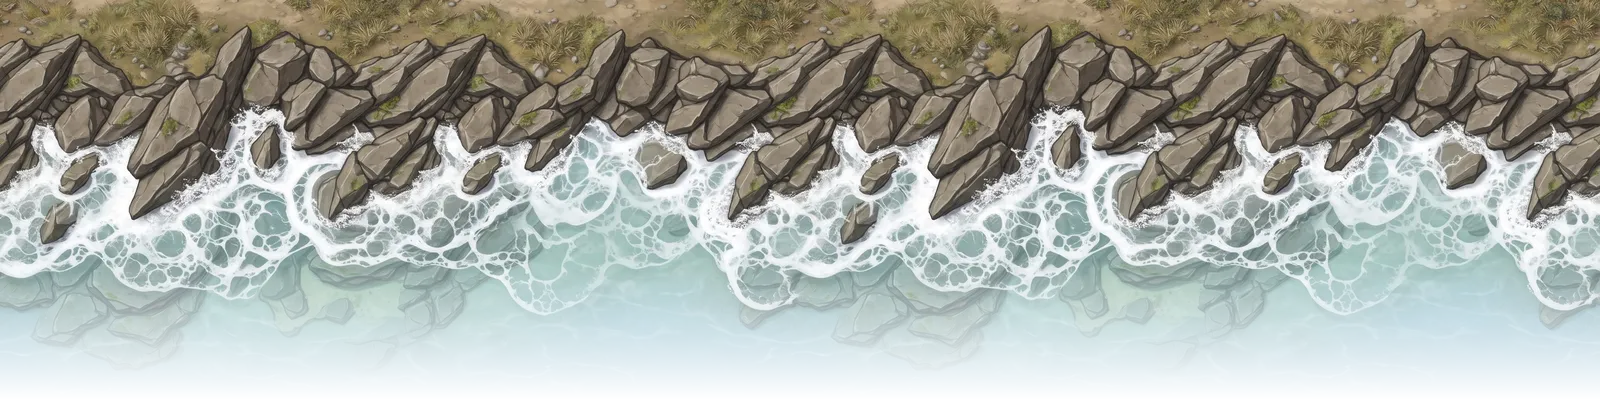
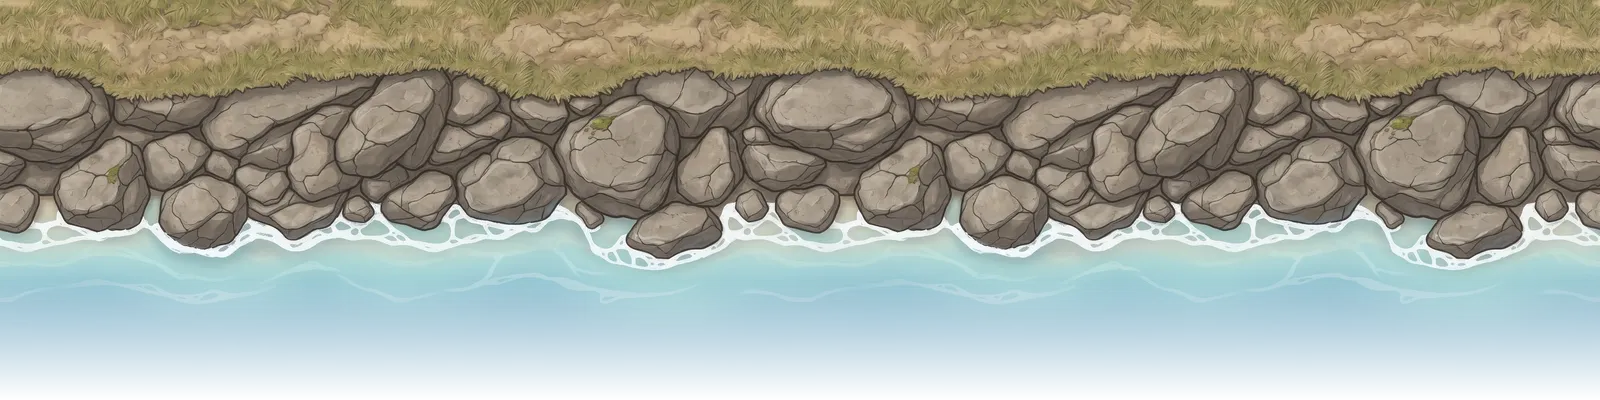
0.72: pobřeží s oblými kameny, pruhy navazují v rozích
Claude-Session: https://claude.ai/code/session_015jCRZRXAnsYATbUEFx8nqY

diff --git a/hra/js/ui/board.js b/hra/js/ui/board.js
@@ -196,8 +196,8 @@ export function createBoard(cv, onPick) {
     ctx.fillStyle = color; ctx.fillText(t, x, y);
   }
   // pruh pobřeží na každou hranu s jediným dílkem: tráva pod dílek, skály a pěna ven do moře.
-  // Pruh je 4:1, výška SH jednotek mapy, hrana leží v SE jeho výšky; konce přesahují o SX kvůli rohům.
-  const SH = 0.8, SE = 0.12, SX = 0.3;
+  // Pruh je 4:1, výška SH jednotek mapy, hrana leží v SE jeho výšky; konce přesahují o SX a ořízne je výseč.
+  const SH = 0.85, SE = 0.15, SX = 0.45;
   function shore(img) {
     const g = B.g, iw = img.naturalWidth, ih = img.naturalHeight;
     for (const id in g.E) {
@@ -209,7 +209,10 @@ export function createBoard(cv, onPick) {
       if (ux * ((a.x + b.x) / 2 - c.x) + uy * ((a.y + b.y) / 2 - c.y) < 0) { ux = -ux; uy = -uy; }
       const len = L + 2 * SX, sw = len / SH * ih, h = [...String(id)].reduce((s, ch) => s * 31 + ch.charCodeAt(0) | 0, 7);
       const sx = Math.abs(h) % Math.max(1, Math.floor(iw - sw));
-      ctx.save(); ctx.transform(tx, ty, ux, uy, a.x, a.y);
+      ctx.save();
+      // výseč dílku za touto hranou: sousední pruhy se v rozích potkají bez mezery a bez přesahu
+      ctx.beginPath(); ctx.moveTo(c.x, c.y); ctx.lineTo(c.x + (a.x - c.x) * 3, c.y + (a.y - c.y) * 3); ctx.lineTo(c.x + (b.x - c.x) * 3, c.y + (b.y - c.y) * 3); ctx.closePath(); ctx.clip();
+      ctx.transform(tx, ty, ux, uy, a.x, a.y);
       ctx.drawImage(img, sx, 0, sw, ih, -SX, -SH * SE, len, SH);
       ctx.restore();
     }

diff --git a/CLAUDE.md b/CLAUDE.md
@@ -238,7 +238,7 @@ převádí jen `ui/board.js`.
   Stavby jsou v původní velikosti, zesvětlené (barva hráče + `screen` bílé figurky) se světlým obrysem a stínem;
   krajiny jsou mírně ztlumené, aby stavby
   vynikly; poslední stavba se kolečkem nevyznačuje.
-  Ostrov má skalnaté pobřeží s pěnou (malovaný pruh `breh.webp` položený na každou hranu pobřeží, `shore()` v `board.js`) a nahnědlé pískové spáry mezi dílky. Místa ke stavbě jsou nenápadné
+  Ostrov má kamenité pobřeží s oblými kameny (malovaný pruh `breh.webp` na každé hraně pobřeží, oříznutý výsečí dílku, `shore()` v `board.js`) a nahnědlé pískové spáry mezi dílky. Místa ke stavbě jsou nenápadné
   světlé tečky (bílá kolečka zadavatel nechce). Přístavy kreslí `port()` v `board.js`: lávky
   (`lavka.webp`) a pergamenová cedulka s ikonkou suroviny a „2:1“, u 3:1 jen poměr. Cesta je `fig-cesta.webp` obarvená na hráče.
   V UI se barva hráče bere vždy přes `pc(p)` (tečka v textu: `dot(p)`) z `dom.js`, nikdy `COLORS[p]`.
